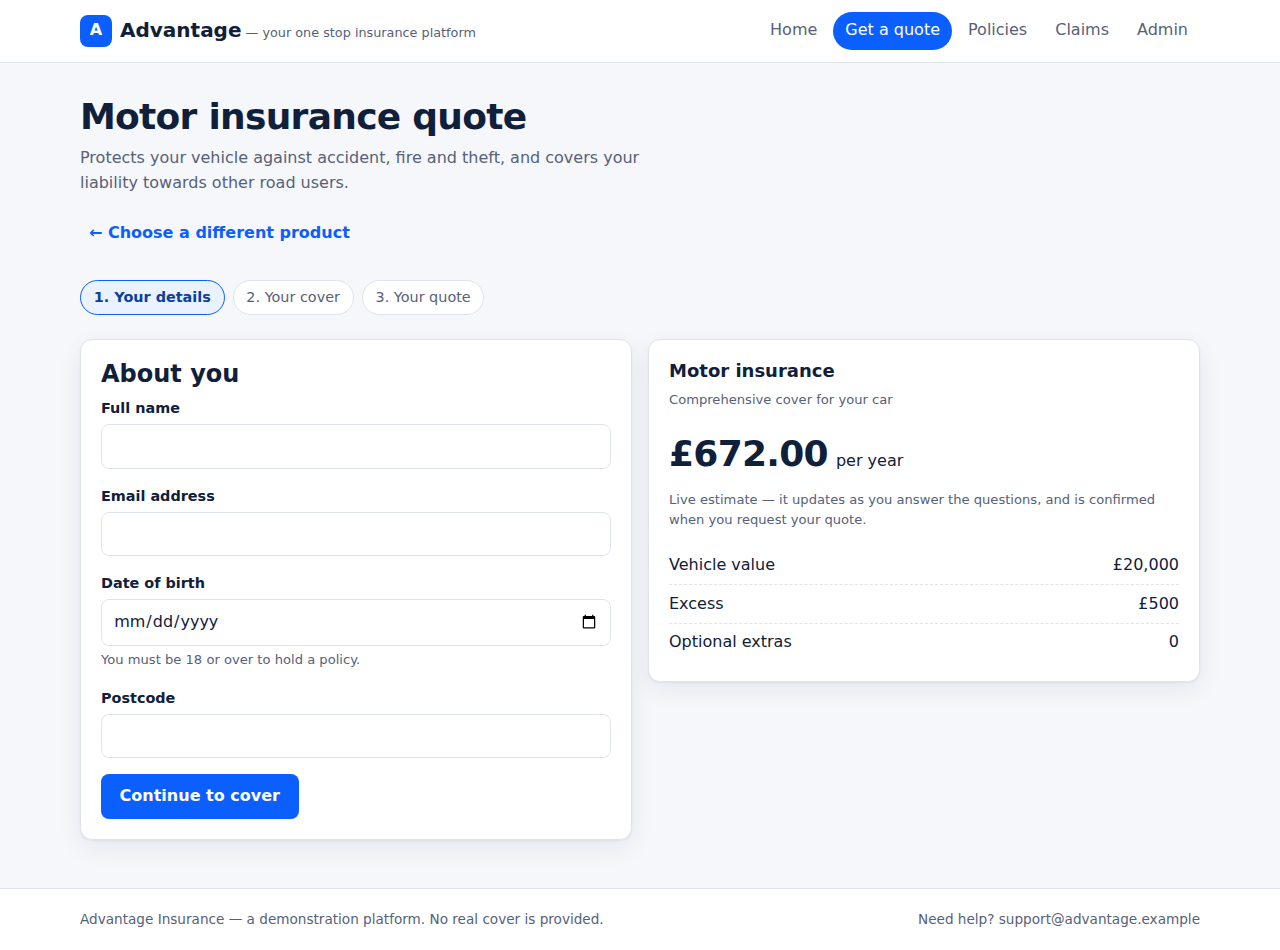
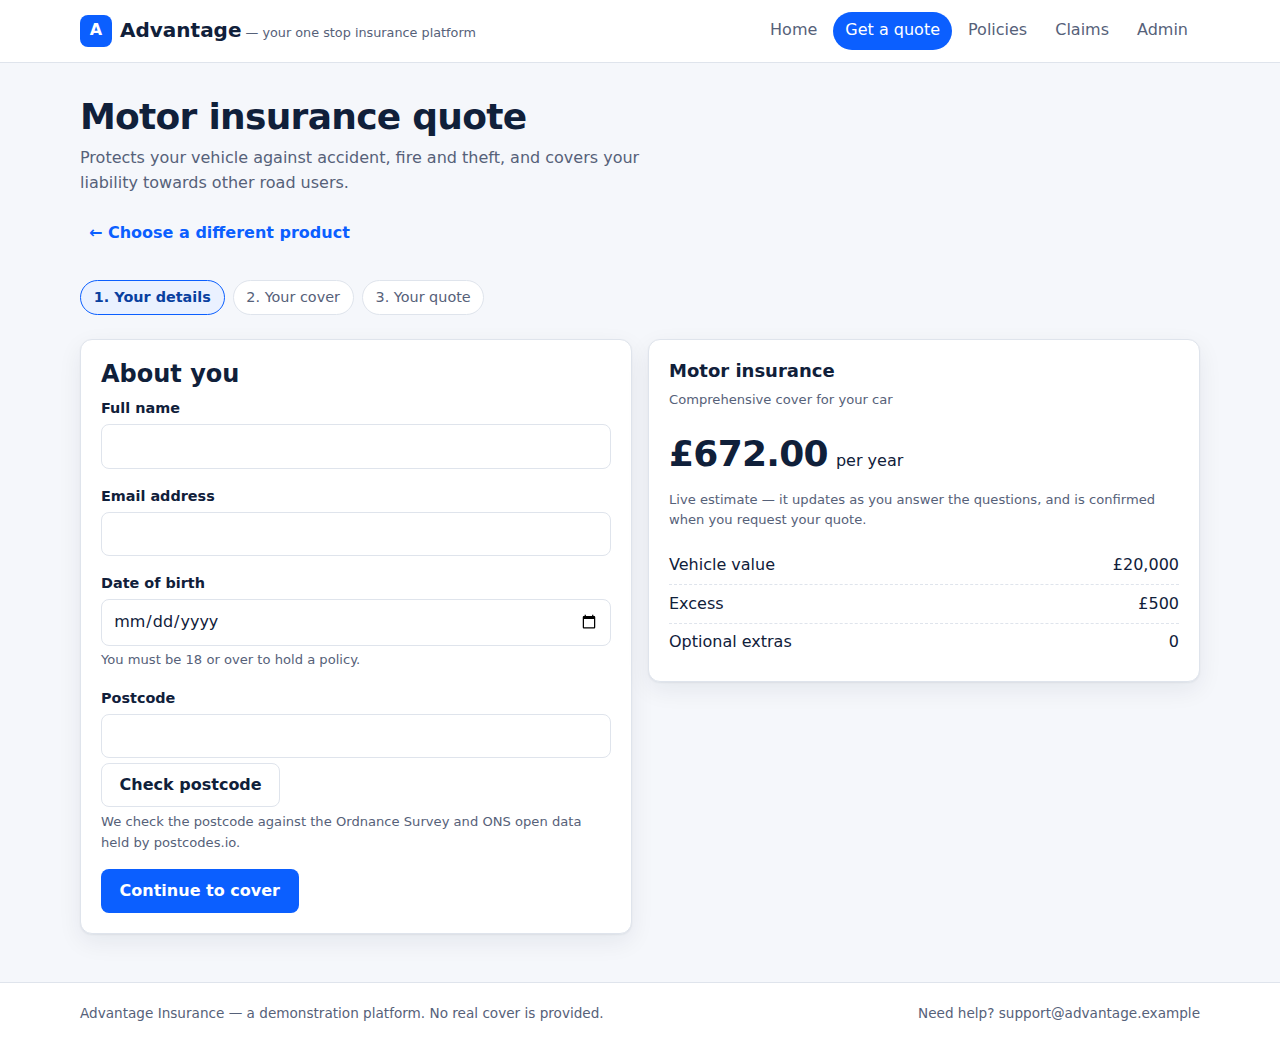
Cover integrations with an end to end test and screenshots

diff --git a/e2e/advantage.spec.ts b/e2e/advantage.spec.ts
@@ -116,6 +116,50 @@ test.describe('Advantage insurance platform', () => {
     await expect(page.getByRole('alert')).toContainText('is not on sale at the moment')
   })
 
+  test('integrations verify the postcode and convert the price', async ({ page }) => {
+    // The external services are stubbed so the journey is deterministic offline.
+    await page.route('**/api.postcodes.io/postcodes/**', (route) =>
+      route.fulfill({
+        status: 200,
+        contentType: 'application/json',
+        body: JSON.stringify({
+          result: {
+            postcode: 'SW1A 2AA',
+            country: 'England',
+            region: 'London',
+            admin_district: 'Westminster',
+            latitude: 51.50354,
+            longitude: -0.127695,
+          },
+        }),
+      }),
+    )
+    await page.route('**/api.frankfurter.app/latest**', (route) =>
+      route.fulfill({
+        status: 200,
+        contentType: 'application/json',
+        body: JSON.stringify({ base: 'GBP', date: '2026-09-14', rates: { EUR: 1.2 } }),
+      }),
+    )
+
+    await page.goto('/#/quote/auto')
+    await page.getByLabel('Postcode').fill('sw1a 2aa')
+    await page.getByRole('button', { name: 'Check postcode' }).click()
+    await expect(page.getByTestId('address-result')).toContainText('Westminster')
+    await expect(page.getByLabel('Postcode')).toHaveValue('SW1A 2AA')
+
+    await buyMotorPolicy(page)
+    await page.getByLabel('Show this price in another currency').selectOption('EUR')
+    await page.getByRole('button', { name: 'Convert' }).click()
+    await expect(page.getByTestId('converted-premium')).toContainText('European Central Bank')
+    await page.screenshot({ path: 'docs/screenshots/08-integrations.png', fullPage: true })
+
+    await page.goto('/#/admin')
+    await page.getByRole('button', { name: 'Test connection' }).first().click()
+    await expect(page.getByTestId('check-addressLookup')).toContainText('Connected')
+    await page.screenshot({ path: 'docs/screenshots/09-admin-integrations.png', fullPage: true })
+  })
+
   test('cover survives a page reload', async ({ page }) => {
     await buyMotorPolicy(page)
 

diff --git a/README.md b/README.md
@@ -131,6 +131,8 @@ administrator can change in the admin portal; new quotes are rated with the save
 | Claim submitted | [05-claim-submitted.png](docs/screenshots/05-claim-submitted.png) |
 | Claim settled | [06-claim-settled.png](docs/screenshots/06-claim-settled.png) |
 | Admin portal | [07-admin.png](docs/screenshots/07-admin.png) |
+| Quote with a converted price | [08-integrations.png](docs/screenshots/08-integrations.png) |
+| Integrations in the admin portal | [09-admin-integrations.png](docs/screenshots/09-admin-integrations.png) |
 
 Advantage is a demonstration platform: no real insurance cover is provided and all data stays in
 your browser.
